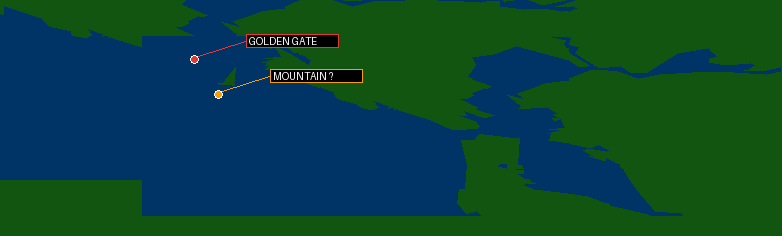
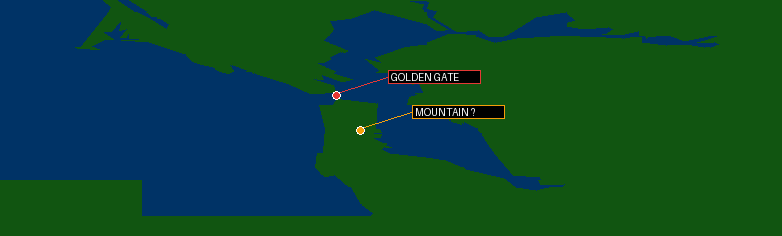
Correct M-map Golden Gate pan alignment

Changed region(s): [[0.0, 0.0, 1.0, 0.9195]]

diff --git a/scripts/render_m_map_panned_vector_mosaic.py b/scripts/render_m_map_panned_vector_mosaic.py
@@ -15,11 +15,13 @@ from PIL import Image, ImageDraw
 ROOT = Path(__file__).resolve().parents[1]
 LAND, SEA = "#115511", "#003366"
 RUNS = (
-    ("run003", ROOT / "build/run003_m_map_projected_polygons/projected_polygons.json", 0, 0, 42),
-    ("run035", ROOT / "build/run035_m_map_projected_polygons/projected_polygons.json", 142, 36, 49),
+    # Normalise the common world view at run035's upper-left.  Run003 is at
+    # +142,+36 in this frame because run035 = run003 + (142,36) on screen.
+    ("run003", ROOT / "build/run003_m_map_projected_polygons/projected_polygons.json", 142, 36, 42),
+    ("run035", ROOT / "build/run035_m_map_projected_polygons/projected_polygons.json", 0, 0, 49),
 )
 WIDTH, HEIGHT = 782, 236
-ANCHORS = (("GOLDEN GATE", 194, 59.5, "#e53935"), ("MOUNTAIN ?", 218, 94, "#f59e0b"))
+ANCHORS = (("GOLDEN GATE", 336, 95.5, "#e53935"), ("MOUNTAIN ?", 360, 130, "#f59e0b"))
 
 
 def canonical_pass(polygons: list[dict]) -> list[dict]:
@@ -75,7 +77,7 @@ def main() -> None:
         "classification": "two_capture_source_vector_coastline_mosaic",
         "runs": report_runs,
         "landmarks": [{"name": name, "anchor": [x, y]} for name, x, y, _ in ANCHORS],
-        "qualification": "The run035 polygon pass is translated +142,+36 host pixels by the measured shared-coastline panning relation. This is a joined observed coverage view, not absolute global coordinates, a complete world map, or a full terrain-model extraction. Screen-relative grid and state-dependent flight-object symbols are excluded.",
+        "qualification": "The normalized mosaic places run035 at (0,0) and run003 at +142,+36 host pixels, because run035 = run003 + (142,36) on the shared coastline. This is a joined observed coverage view, not absolute global coordinates, a complete world map, or a full terrain-model extraction. Screen-relative grid and state-dependent flight-object symbols are excluded.",
     }
     report_path.write_text(json.dumps(report, indent=2) + "\n", encoding="utf-8")
     print(json.dumps({"runs": len(report_runs), "svg": str(svg_path), "png": str(png_path)}))

diff --git a/scripts/annotate_run035_m_map_panned_landmarks.py b/scripts/annotate_run035_m_map_panned_landmarks.py
@@ -53,7 +53,7 @@ def main() -> None:
     for (x1, y1), (x2, y2) in RUN035_GRID:
         fragments.append(f'<line x1="{x1 * 2:g}" y1="{y1:g}" x2="{x2 * 2:g}" y2="{y2:g}" stroke="#555" stroke-width="1"/>')
     for name, (x, y), colour, evidence in RUN003_ANCHORS:
-        px, py = x - PAN[0], y - PAN[1]
+        px, py = x + PAN[0], y + PAN[1]
         labels.append({"name": name, "run003_anchor": [x, y], "run035_anchor": [px, py], "evidence": evidence})
         fragments.extend([
             f'<circle cx="{px:g}" cy="{py:g}" r="3.5" fill="{colour}" stroke="#fff" stroke-width=".8"/>',
@@ -82,7 +82,7 @@ def main() -> None:
     for (x1, y1), (x2, y2) in RUN035_GRID:
         draw.line(((x1 * 2, y1), (x2 * 2, y2)), fill="#555555", width=1)
     for name, (x, y), colour, _ in RUN003_ANCHORS:
-        px, py = x - PAN[0], y - PAN[1]
+        px, py = x + PAN[0], y + PAN[1]
         draw.ellipse((px - 3.5, py - 3.5, px + 3.5, py + 3.5), fill=colour, outline="white", width=1)
         draw.line(((px + 3, py - 2), (px + 41, py - 15)), fill=colour, width=1)
         draw.rectangle((px + 42, py - 22, px + 124, py - 9), fill="black", outline=colour, width=1)
@@ -95,7 +95,7 @@ def main() -> None:
     image.save(args.png)
     report = {
         "classification": "panning_transferred_fixed_landmarks_plus_directly_traced_flight_object_marker",
-        "source_svg": str(args.input), "panning_relation": "run035 = run003 - (142, 36) host pixels",
+        "source_svg": str(args.input), "panning_relation": "run035 = run003 + (142, 36) host pixels",
         "grid_segments": [[list(start), list(end)] for start, end in RUN035_GRID],
         "labels": labels,
         "qualification": "Grid and FLIGHT OBJECT ? are direct run035 renderer traces. Golden Gate and Mountain ? are transferred fixed-world anchors using the measured coastline translation. The marker trace does not establish ownership or semantic game identity.",

diff --git a/analysis/data/run035_m_map_panned_landmarks.md b/analysis/data/run035_m_map_panned_landmarks.md
@@ -1,10 +1,11 @@
 # Run035 panned M-map landmarks
 
-[Open the panned landmark map](../visuals/run035_m_map_projected_polygon_vectors_landmarks.svg).
+This original artifact had the panning sign reversed and is superseded by the
+[corrected traced-marker map](../visuals/run035_m_map_projected_polygon_vectors_landmarks_traced_marker.svg).
 
 The Golden Gate and mountain-candidate anchors are transferred from run003
-using the measured fixed-coastline relation `run035 = run003 - (142,36)` host
+using the measured fixed-coastline relation `run035 = run003 + (142,36)` host
 pixels. The run035 source-vector coastline is independently extracted; this
 step only transfers fixed landmark positions, rather than claiming a new
-run035 bridge/terrain control trace. The flight-object marker is intentionally
-not transferred because its motion and player ownership are unresolved.
+run035 bridge/terrain control trace. The corrected artifact also has the
+separately traced state-dependent flight-object marker.

diff --git a/analysis/data/m_map_panned_projected_polygon_mosaic.md b/analysis/data/m_map_panned_projected_polygon_mosaic.md
@@ -6,8 +6,9 @@
 This wider view joins the run003 42-polygon and run035 49-polygon canonical
 M-map passes. Every blue shape is a direct `$C4B390` projected polygon
 captured immediately before `$C2FF48`; the green base is the game’s observed
-land palette. Run035 is translated by `(142,36)` host pixels, the measured
-shared-coastline relation to run003.
+land palette. In the normalized mosaic run035 starts at `(0,0)` and run003 is
+translated by `(142,36)` host pixels, matching the measured relation
+`run035 = run003 + (142,36)` on the shared coastline.
 
 Golden Gate and Mountain ? retain their existing evidence-qualified anchors.
 The display grid and flight-object marker are excluded: they are view/state
